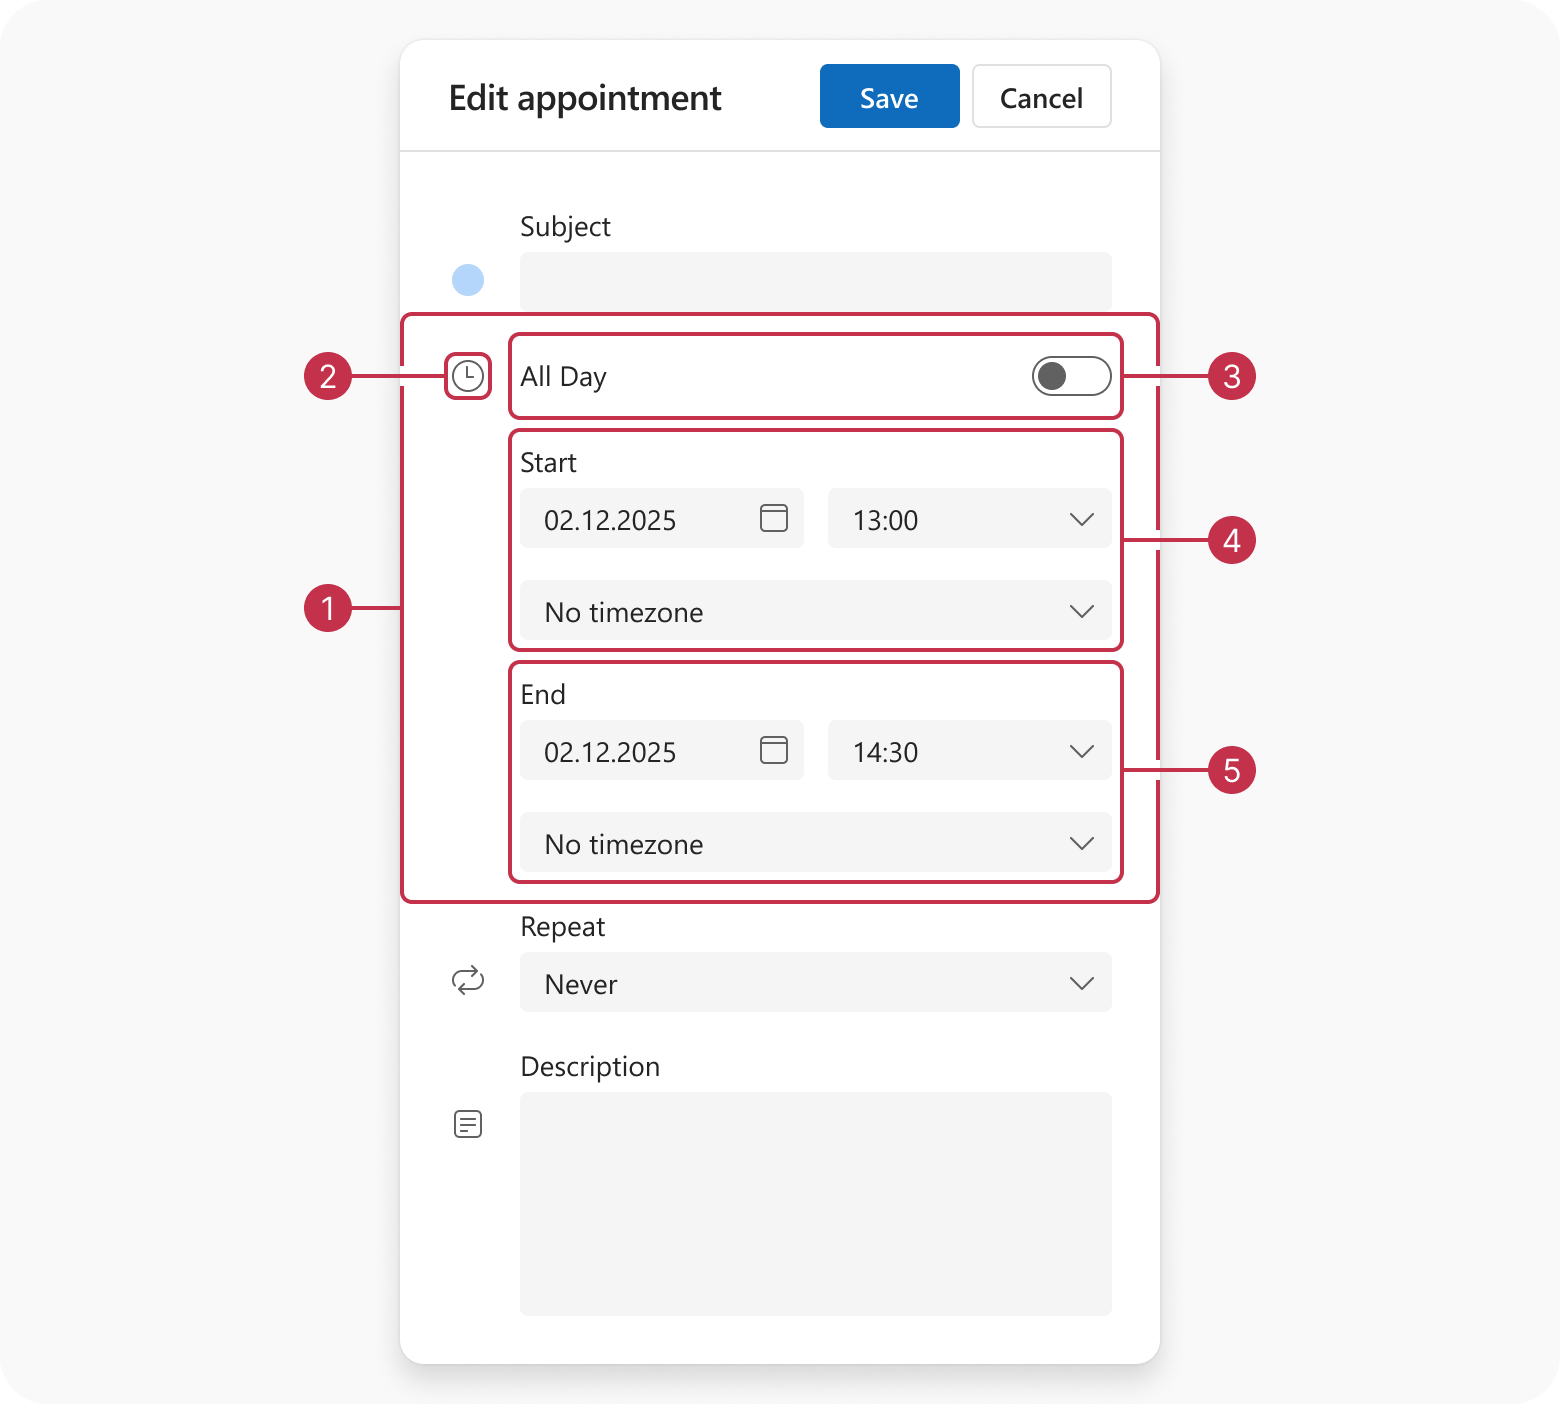
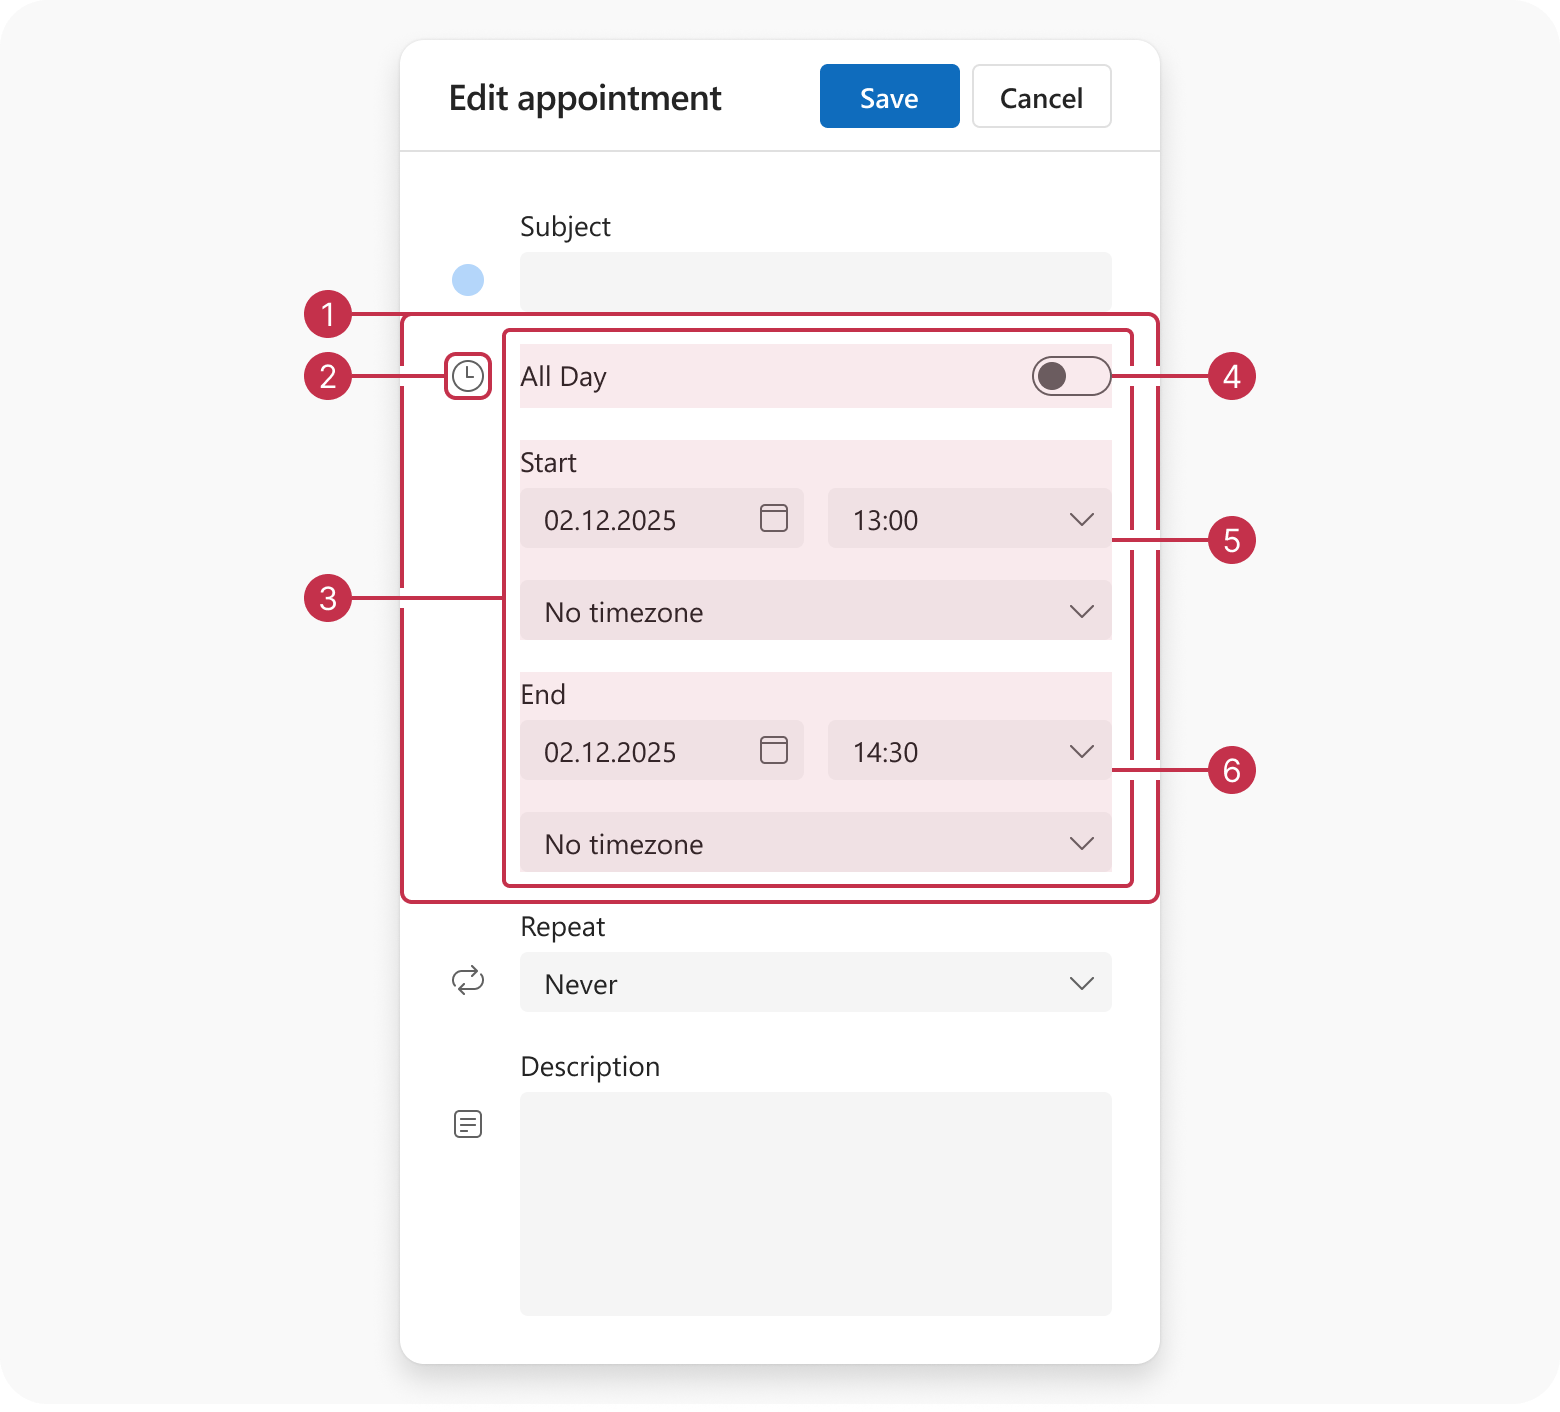
Finalize information

diff --git a/concepts/05 UI Components/Scheduler/030 Appointments/070 Appointment Edit Form/15 Predefined Items.md b/concepts/05 UI Components/Scheduler/030 Appointments/070 Appointment Edit Form/15 Predefined Items.md
@@ -1,84 +1,70 @@
-The appointment edit form includes multiple predefined items. To integrate these, assign predefined item names to [SimpleItem]()/[GroupItem]() objects in the **editing**.**form**.[items]() array. You can customize predefined items in their **SimpleItem**/**GroupItem** objects. To integrate predefined items without customization, add item names as strings.
+The appointment edit form includes multiple predefined items. To integrate these, assign predefined item names to [SimpleItem](/Documentation/ApiReference/UI_Components/dxForm/Item_Types/SimpleItem/)/[GroupItem](/Documentation/ApiReference/UI_Components/dxForm/Item_Types/GroupItem/) objects in the **editing**.**form**.[items](/Documentation/ApiReference/UI_Components/dxScheduler/Configuration/editing/form/#items) array. You can customize predefined items in their **SimpleItem**/**GroupItem** objects. To integrate predefined items without customization, add item names as strings.
 
 The following predefined items are available:
-
-- [mainGroup]({currentpath}#mainGroup)
-- [recurrenceGroup]({currentpath}#recurrenceGroup)
-- [subjectGroup]({currentpath}#subjectGroup)
-- [dateGroup]({currentpath}#dateGroup)
-- [repeatGroup]({currentpath}#repeatGroup)
-- [descriptionGroup]({currentpath}#descriptionGroup)
-- [startDateGroup]({currentpath}#startDateGroup)
-- [endDateGroup]({currentpath}#endDateGroup)
-- [recurrenceStartDateGroup]({currentpath}#recurrenceStartDateGroup)
-- [recurrenceRuleGroup]({currentpath}#recurrenceRuleGroup)
-- [recurrencePeriodEditor]({currentpath}#recurrencePeriodEditor)
-- [recurrenceEndGroup]({currentpath}#recurrenceEndGroup)
-
-Predefined items are nested as follows:
 
     editing.form.items
     ├─ mainGroup
     |  ├─ subjectGroup
     |  │  ├─ subjectIcon
     |  │  └─ subjectEditor
-    |  └─ dateGroup
-    |     ├─ dateIcon
-    |     ├─ allDayEditor
-    |     ├─ startDateGroup
-    |     │  ├─ startDateTimeGroup
-    |     │  │  ├─ startDateEditor
-    |     │  │  └─ startTimeEditor
-    |     │  └─ startDateTimezoneEditor
-    |     ├─ endDateGroup
-    |     │  ├─ endDateTimeGroup
-    |     │  │  ├─ endDateEditor
-    |     │  │  └─ endTimeEditor
-    |     │  └─ endDateTimezoneEditor
-    |     ├─ repeatGroup
-    |     │  ├─ repeatIcon
-    |     │  └─ repeatEditor
-    |     └─ descriptionGroup
-    |        ├─ descriptionIcon
-    |        └─ descriptionEditor
+    |  ├─ dateGroup
+    |  │  ├─ dateIcon
+    |  |  └─ TBA
+    |  │     ├─ allDayEditor
+    |  │     ├─ startDateGroup
+    |  │     │  ├─ startDateTimeGroup
+    |  │     │  │  ├─ startDateEditor
+    |  │     │  │  └─ startTimeEditor
+    |  │     │  └─ startDateTimezoneEditor
+    |  │     └─ endDateGroup
+    |  │        ├─ endDateTimeGroup
+    |  │        │  ├─ endDateEditor
+    |  │        │  └─ endTimeEditor
+    |  │        └─ endDateTimezoneEditor
+    |  ├─ repeatGroup
+    |  │  ├─ repeatIcon
+    |  │  └─ repeatEditor
+    |  └─ descriptionGroup
+    |     ├─ descriptionIcon
+    |     └─ descriptionEditor
     └─ recurrenceGroup
        ├─ recurrenceStartDateGroup
        │  ├─ recurrenceStartDateIcon
        │  └─ recurrenceStartDateEditor
        ├─ recurrenceRuleGroup
        │  ├─ recurrenceRuleIcon
-       │  ├─ recurrenceRuleRepeatGroup
-       │  ├─ recurrenceCountEditor
-       │  ├─ recurrencePeriodEditor
-       │  └─ recurrenceDayOfYearGroup — recurrenceDaysOfWeekEditor — recurrenceDayOfMonthEditor
-       │     ├─ recurrenceDayOfYearMonthEditor
-       │     └─ recurrenceDayOfYearDayEditor
+       │  └─ recurrencePatternGroup
+       │     ├─ recurrenceRuleRepeatGroup
+       │     |  ├─ recurrenceCountEditor
+       │     |  └─ recurrencePeriodEditor
+       │     └─ recurrenceDayOfYearGroup — recurrenceDaysOfWeekEditor — recurrenceDayOfMonthEditor
+       │        ├─ recurrenceDayOfYearMonthEditor
+       │        └─ recurrenceDayOfYearDayEditor
        └─ recurrenceEndGroup
           ├─ recurrenceEndIcon
           └─ recurrenceEndEditor
 
-### General Details
+Below is a list of images that demonstrate predefined items within each available group.
 
-<a name='mainGroup' href=''></a>
+### General Appointment Details
 
-<img src="/images/Scheduler/appointment-edit-form/items/1-mainGroup.png" alt="TBA" style="width: 750px"></img>
+General appointment details are available in the `mainGroup`:
+
+<img src="/images/Scheduler/appointment-edit-form/items/1-mainGroup.png" alt="Scheduler appointment edit form, main group" style="width: 750px"></img>
 
 1. `mainGroup`
 
-### Recurrence Settings
+### Appointment Recurrence Settings
 
-<a name='recurrenceGroup' href=''></a>
+Appointment recurrence settings are available in the `recurrenceGroup`:
 
-<img src="/images/Scheduler/appointment-edit-form/items/2-recurrenceGroup.png" alt="TBA" style="width: 750px"></img>
+<img src="/images/Scheduler/appointment-edit-form/items/2-recurrenceGroup.png" alt="Scheduler appointment edit form, recurrence group" style="width: 750px"></img>
 
 1. `recurrenceGroup`
 
 ### Subject
 
-<a name='subjectGroup' href=''></a>
-
-<img src="/images/Scheduler/appointment-edit-form/items/3-subjectGroup.png" alt="TBA" style="width: 750px"></img>
-
+<img src="/images/Scheduler/appointment-edit-form/items/3-subjectGroup.png" alt="Scheduler appointment edit form, subject group items" style="width: 750px"></img
 
 1. `subjectGroup`
 2. `subjectIcon`
@@ -86,21 +72,18 @@ Predefined items are nested as follows:
 
 ### Date
 
-<a name='dateGroup' href=''></a>
-
-<img src="/images/Scheduler/appointment-edit-form/items/4-dateGroup.png" alt="TBA" style="width: 750px"></img>
+<img src="/images/Scheduler/appointment-edit-form/items/4-dateGroup.png" alt="Scheduler appointment edit form, date group items" style="width: 750px"></img>
 
 1. `dateGroup`
 2. `dateIcon`
-3. `allDayEditor`
-4. `startDateGroup`
-5. `endDateGroup`
+3. TBA
+4. `allDayEditor`
+5. `startDateGroup`
+6. `endDateGroup`
 
-### Recurrence Dropdown
+### Recurrence
 
-<a name='repeatGroup' href=''></a>
-
-<img src="/images/Scheduler/appointment-edit-form/items/5-repeatGroup.png" alt="TBA" style="width: 750px"></img>
+<img src="/images/Scheduler/appointment-edit-form/items/5-repeatGroup.png" alt="Scheduler appointment edit form, repeat group items" style="width: 750px"></img>
 
 1. `repeatGroup`
 2. `repeatIcon`
@@ -108,19 +91,15 @@ Predefined items are nested as follows:
 
 ### Description
 
-<a name='descriptionGroup' href=''></a>
-
-<img src="/images/Scheduler/appointment-edit-form/items/6-descriptionGroup.png" alt="TBA" style="width: 750px"></img>
+<img src="/images/Scheduler/appointment-edit-form/items/6-descriptionGroup.png" alt="Scheduler appointment edit form, description group items" style="width: 750px"></img>
 
 1. `descriptionGroup`
 2. `descriptionIcon`
 3. `descriptionEditor`
 
-### Recurrence Start
+### Start Date
 
-<a name='startDateGroup' href=''></a>
-
-<img src="/images/Scheduler/appointment-edit-form/items/7-startDateGroup.png" alt="TBA" style="width: 750px"></img>
+<img src="/images/Scheduler/appointment-edit-form/items/7-startDateGroup.png" alt="Scheduler appointment edit form, start date group items" style="width: 750px"></img>
 
 1. `startDateGroup`
 2. `startDateTimeGroup`
@@ -128,11 +107,9 @@ Predefined items are nested as follows:
 4. `startDateEditor`
 5. `startTimeEditor`
 
-### Recurrence End
+### End Date
 
-<a name='endDateGroup' href=''></a>
-
-<img src="/images/Scheduler/appointment-edit-form/items/8-endDateGroup.png" alt="TBA" style="width: 750px"></img>
+<img src="/images/Scheduler/appointment-edit-form/items/8-endDateGroup.png" alt="Scheduler appointment edit form, end date group items" style="width: 750px"></img>
 
 1. `endDateGroup`
 2. `endDateTimeGroup`
@@ -142,46 +119,50 @@ Predefined items are nested as follows:
 
 ### Recurrence Start Date
 
-<a name='recurrenceStartDateGroup' href=''></a>
-
-<img src="/images/Scheduler/appointment-edit-form/items/9-recurrenceStartDateGroup.png" alt="TBA" style="width: 750px"></img>
+<img src="/images/Scheduler/appointment-edit-form/items/9-recurrenceStartDateGroup.png" alt="Scheduler appointment edit form, recurrence start date group items" style="width: 750px"></img>
 
 1. `recurrenceStartDateGroup`
 2. `recurrenceStartDateIcon`
 2. `recurrenceStartDateEditor`
 
-### Recurrence Rules - General Settings
+### Recurrence Rules - Common Items
 
-<a name='recurrenceRuleGroup' href=''></a>
+The following image demonstrates `recurrenceRuleGroup` items that are displayed in all recurrence modes:
 
-<img src="/images/Scheduler/appointment-edit-form/items/10-recurrenceRuleGroup.png" alt="TBA" style="width: 750px"></img>
+<img src="/images/Scheduler/appointment-edit-form/items/10-recurrenceRuleGroup.png" alt="Scheduler appointment edit form, recurrence rule group items displayed in all recurrence modes" style="width: 750px"></img>
 
 1. `recurrenceRuleGroup`
 2. `recurrenceRuleIcon`
-3. `recurrenceRuleRepeatGroup`
+3. `recurrencePatternGroup`    
+   └─ `recurrenceRuleRepeatGroup`
 4. `recurrenceCountEditor`
 
-### Recurrence Rules - Rule-Specific Options
+[note] `recurrenceCountEditor` is nested within `recurrenceRuleRepeatGroup`.
 
-<a name='recurrencePeriodEditor' href=''></a>
+### Recurrence Rules - Mode-Specific Options
 
-<img src="/images/Scheduler/appointment-edit-form/items/11-recurrenceRuleOptions.png" alt="TBA" style="width: 750px"></img>
+The following image demonstrates `recurrenceRuleGroup` items specific to each recurrence mode:
 
-1. `recurrencePeriodEditor` - Daily Recurrence
+<img src="/images/Scheduler/appointment-edit-form/items/11-recurrenceRuleOptions.png" alt="Scheduler appointment edit form, recurrence rule group items specific to each recurrence mode" style="width: 750px"></img>
+
+1. `recurrencePeriodEditor` - Daily Recurrence    
+   ㅤ
 2. `recurrencePeriodEditor` - Weekly Recurrence
-3. `recurrenceDaysOfWeekEditor`
+3. `recurrenceDaysOfWeekEditor`    
+   ㅤ
 4. `recurrencePeriodEditor` - Monthly Recurrence
-5. `recurrenceDayOfMonthEditor`
+5. `recurrenceDayOfMonthEditor`    
+   ㅤ
 6. `recurrencePeriodEditor` - Yearly Recurrence
 7. `recurrenceDayOfYearGroup`
 8. `recurrenceDayOfYearMonthEditor`
 9. `recurrenceDayOfYearDayEditor`
 
-### Recurrence End
+[note] All items except `recurrencePeriodEditor` are nested within `recurrencePatternGroup`.
 
-<a name='recurrenceEndGroup' href=''></a>
+### Recurrence End Date
 
-<img src="/images/Scheduler/appointment-edit-form/items/12-recurrenceEndGroup.png" alt="TBA" style="width: 750px"></img>
+<img src="/images/Scheduler/appointment-edit-form/items/12-recurrenceEndGroup.png" alt="Scheduler appointment edit form, recurrence end date group items" style="width: 750px"></img>
 
 1. `recurrenceEndGroup`
 2. `recurrenceEndIcon`

diff --git a/concepts/05 UI Components/Scheduler/030 Appointments/070 Appointment Edit Form/00 Appointment Edit Form.md b/concepts/05 UI Components/Scheduler/030 Appointments/070 Appointment Edit Form/00 Appointment Edit Form.md
@@ -1,1 +1,1 @@
-The appointment edit form allows users to modify or add appointments in the Scheduler data source. The form contains two groups: the general information group (`mainGroup`) and the recurrence settings group (`recurrenceGroup`). Scheduler initially displays `mainGroup` and switches to the `recurrenceGroup` when users change the "Repeat" drop-down value.
+The appointment edit form allows users to modify or add appointments in the Scheduler data source. The form contains two groups: the general information group (`mainGroup`) and the recurrence settings group (`recurrenceGroup`). Scheduler initially displays `mainGroup` and switches to the `recurrenceGroup` when users modify the "Repeat" drop-down value.

diff --git a/concepts/05 UI Components/Scheduler/030 Appointments/070 Appointment Edit Form/05 Rearrange Form Items.md b/concepts/05 UI Components/Scheduler/030 Appointments/070 Appointment Edit Form/05 Rearrange Form Items.md
@@ -1,4 +1,4 @@
-Configure **editing**.**form**.[items[]]() to customize the appointment edit form layout. To preserve the form's switching functionality between `mainGroup` and `recurrenceGroup`, add the groups as [group items]() in the **items[]** root:
+Configure **editing**.**form**.[items[]](/Documentation/ApiReference/UI_Components/dxScheduler/Configuration/editing/form/#items) to customize the appointment edit form layout. To preserve the form's switching functionality between `mainGroup` and `recurrenceGroup`, add the groups as [group items](/Documentation/ApiReference/UI_Components/dxForm/Item_Types/GroupItem/) in the **items[]** root:
 
 ---
 